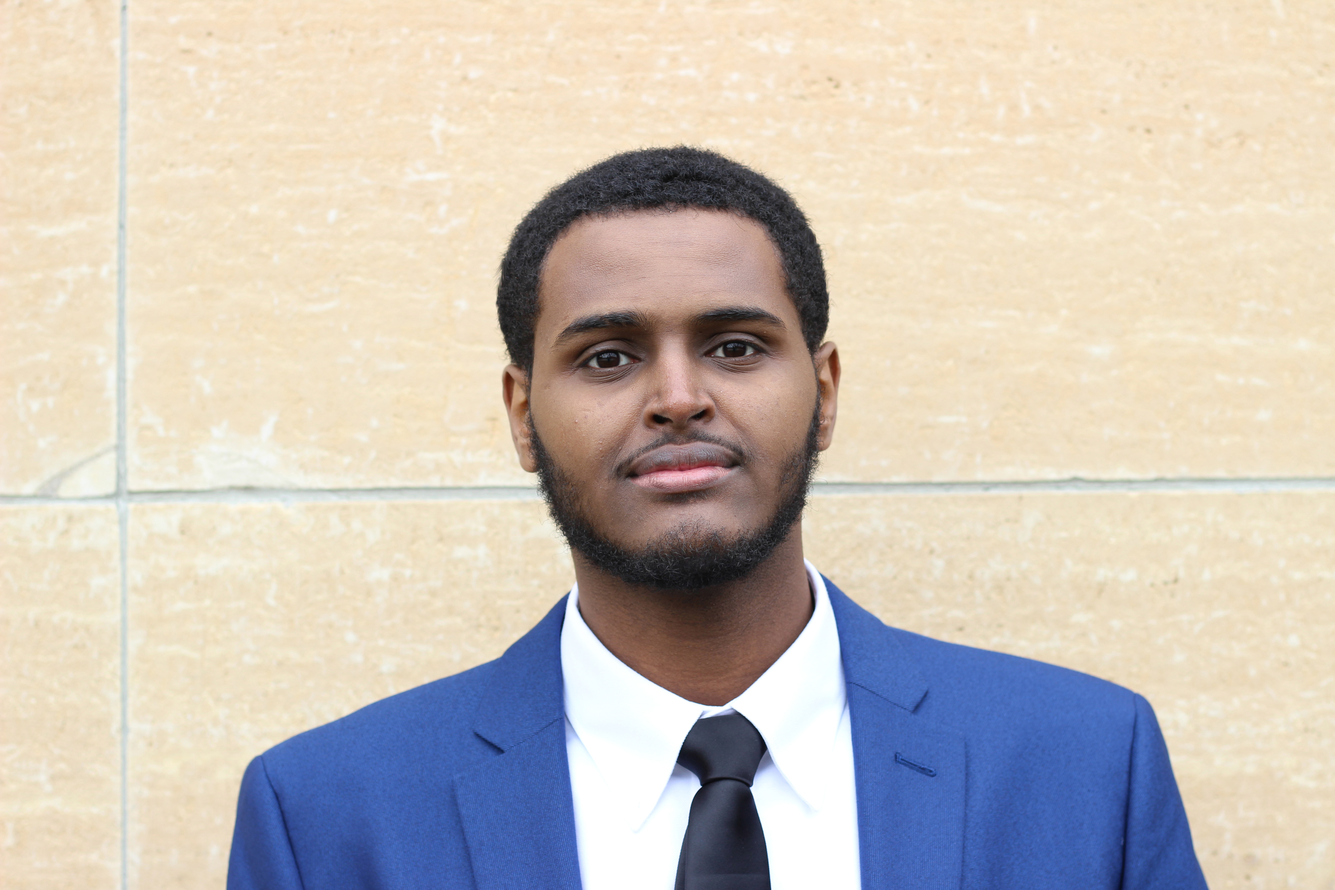
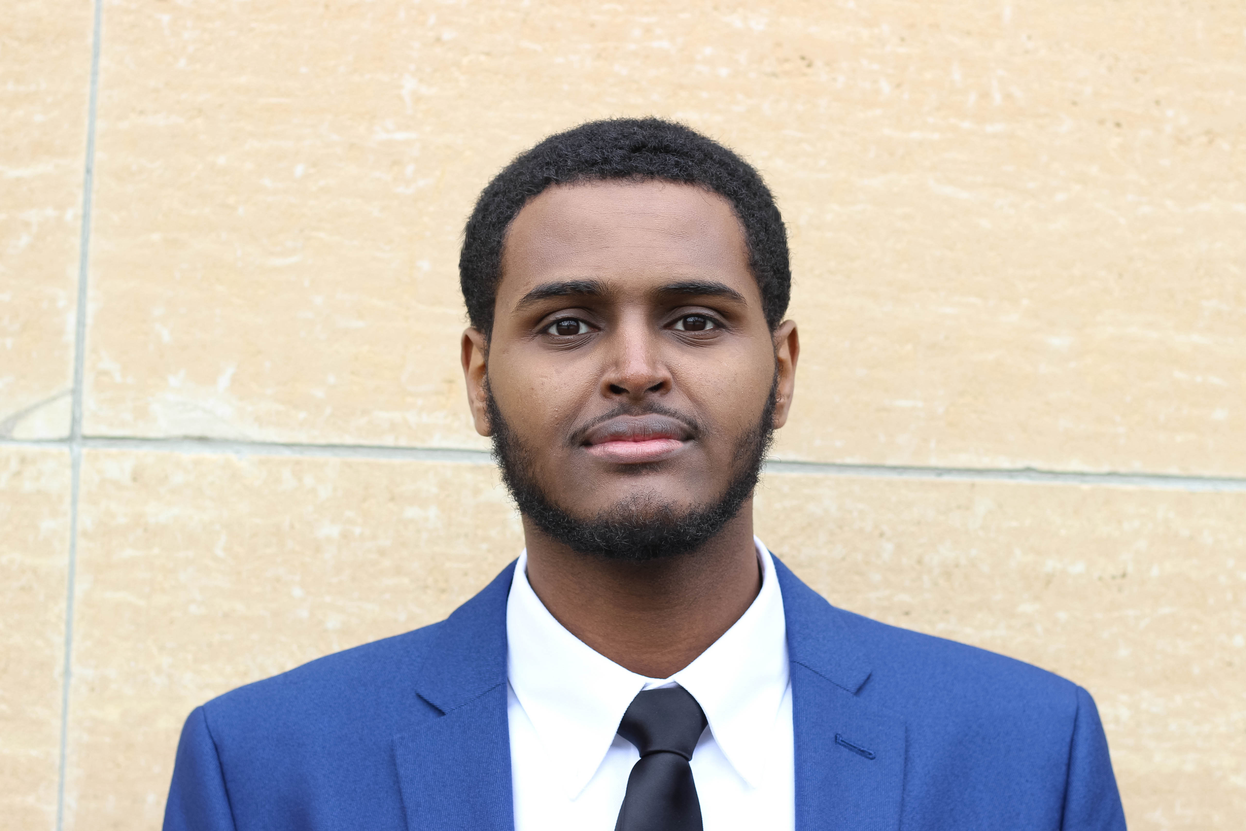
profile pic update

diff --git a/index.html b/index.html
@@ -103,7 +103,7 @@
 
    			<div class="intro-info">
 
-   				<img src="images/profile-pic.jpg" alt="Profile Picture">
+   				<!-- <img src="images/profile-pic.jpg" alt="Profile Picture"> -->
 
    				<p class="lead">•	I am currently a Systems Developer at Federated Insurance developing and maintaining applications for our business so that they can best serve our insureds. I graduated from Minnesota State University, Mankato with a B.S in Computer Information Technology. I've worked with a variety of technical tools and have used several programming languages such as python, java, SQL, html and css. Tools in which I've used are wireshark,packet tracer, terminal and more. You can find more of my work at<a href="https://github.com/salmanomar97/"> github.com/salmanomar97/</a></p>
    			</div>   			
